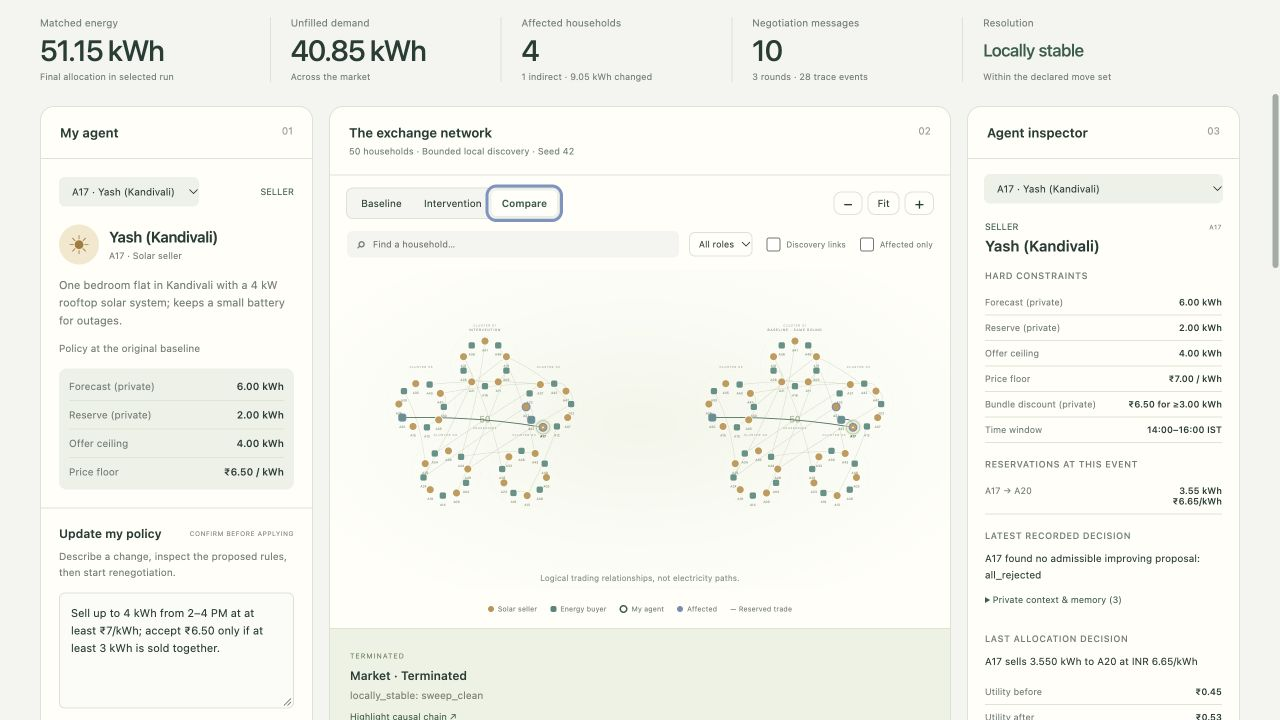
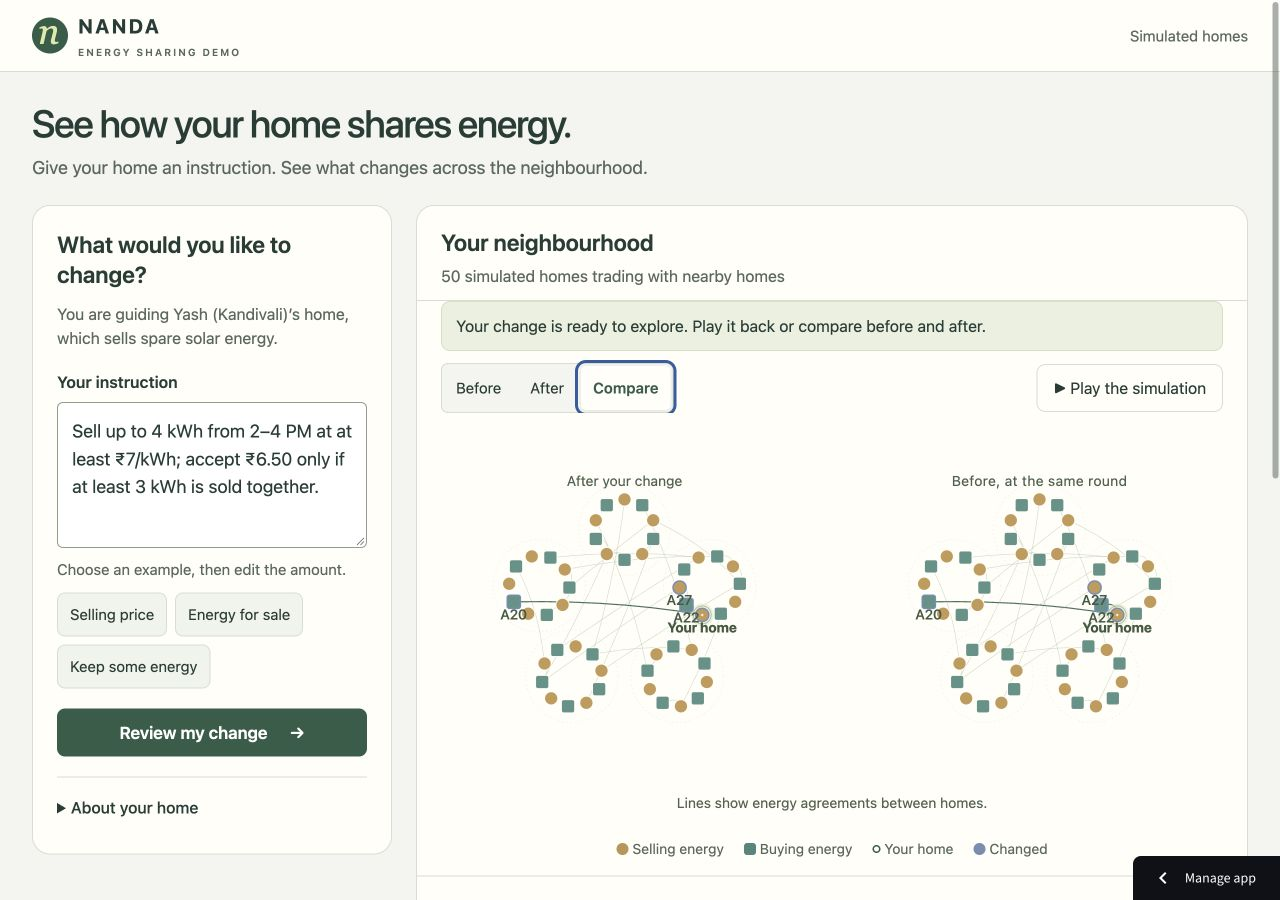
Document and verify the simplified public workspace

diff --git a/README-COLLECTIVE.md b/README-COLLECTIVE.md
@@ -1,6 +1,6 @@
 # Collective energy exchange sandbox
 
-The collective workspace lets you change a household policy and inspect the resulting negotiations. It supports 20, 50, or 100 synthetic households, recorded replay, baseline comparison, agent inspection, and evidence exports.
+The workspace starts with two panels: an instruction box and a neighbourhood simulation. Choose an example or write an instruction, review the change, and see what happens. Settings, household details, research results, and downloads stay closed until you need them. The simulation supports 20, 50, or 100 synthetic homes.
 
 [Open the hosted workspace](https://energy-exchange-collective.streamlit.app/).
 
@@ -41,18 +41,20 @@ The requirements file beside the entry point keeps collective deployment indepen
 
 ## Try the demonstration
 
-1. Keep 50 households, local discovery, and seed 42, then generate a baseline.
-2. Keep household A17 selected and enter the instruction below.
-3. Select **Preview policy**, check the proposed changes, and select **Confirm & renegotiate**.
-4. Step through the event timeline or play the recorded events. Click a household to inspect its current reservations and latest decision.
-5. Select **Compare** to see both networks at the same logical round. Scroll to Analysis for final allocation and utility differences.
-6. Select an export button, then its **Download** link for the experiment JSON, event JSONL, or trade ledger CSV. The JSON contains both worlds, both runs, the exact changed fields, and reproducibility checksums. **View or copy** exposes the complete file if the browser cancels a download. Some downloads were cancelled by the Codex in-app browser during verification; the export text and the packaged examples were checked directly.
+1. Open the page. It prepares 50 homes using local discovery and seed 42, with A17 selected.
+2. Choose an example or enter the instruction below. Examples fill the box without applying a change.
+3. Select **Review my change**, check the proposed rules, and select **Apply and see the result**.
+4. Select **Play the simulation** above the graph. **Before**, **After**, and **Compare** appear once a change has run. Comparison shows both networks at the same recorded round.
+5. Open **More ways to explore** for zoom, filters, and individual replay steps. Select a home in the graph to open its details.
+6. Open **Detailed results and downloads** for the comparison table, charts, and exports. Select an export button, then its **Download** link. **View or copy** exposes the complete file if the browser cancels a download.
+
+To change the number of homes or other research settings, open **Simulation settings** and select **Build the market**. The prompt comes first on a phone. Main text and controls are larger, and a keyboard skip link bypasses the network's interactive shapes.
 
 ```text
 Sell up to 4 kWh from 2–4 PM at at least ₹7/kWh; accept ₹6.50 only if at least 3 kWh is sold together.
 ```
 
-Each intervention starts from the original baseline. Editing an instruction or experiment setting invalidates its previous confirmation preview. A failed request leaves the last successful result visible.
+Each intervention starts from the original baseline. Reviewing a second instruction explains that it replaces the previous change. Editing an instruction or experiment setting invalidates its previous confirmation preview. A failed request leaves the last successful result visible.
 
 ## Supported instructions
 
@@ -63,7 +65,7 @@ The parser uses an explicit grammar and rejects unsupported clauses. It does not
 | Seller price | Raise my minimum price to ₹9/kWh |
 | Seller offer | Sell up to 4 kWh |
 | Forecast | Set my surplus to 3 kWh |
-| Reserve | Keep at least 1 kWh in reserve |
+| Reserve | Keep 1 kWh in reserve |
 | Buyer price | Set my maximum price to INR 10 |
 | Buyer budget | Set my budget to INR 25 |
 | Buyer requirement | Buy 3 kWh |
@@ -100,7 +102,7 @@ node --test tests/test_collective_ui.cjs tests/collective_streamlit_bridge.test.
 
 The engine tests use hand-checked fixtures for prices, budgets, reserves, bundle conditions, displacement, and baseline cloning. Scale checks cover all supported populations and discovery modes. The engine's `verify_result` function independently checks exported allocations and causal references. Browser regression tests execute the actual application script for confirmation and result handling.
 
-The complete original and collective Python suite also needs the original `requirements.txt` dependencies. The checked build passed 99 Python tests and 17 JavaScript tests. The additional scenario matrix passed all 54 cases; see `docs/evidence/verification.json`.
+The complete original and collective Python suite also needs the original `requirements.txt` dependencies. The checked build passed 99 Python tests and 28 JavaScript tests. The additional scenario matrix passed all 54 cases; see `docs/evidence/verification.json`.
 
 The cycle detection path is implemented, but no tested generated world produced a cycle. The workspace provides energy-by-event and final utility charts. Configurable utility penalties, arbitrary time windows, live meters, settlement, and production deployment are outside this version.
 

diff --git a/docs/superpowers/plans/2026-10-27-simple-workspace.md b/docs/superpowers/plans/2026-10-27-simple-workspace.md
@@ -31,9 +31,9 @@
 
 **Interfaces:** Preserve all existing IDs consumed by `collective.js`. Add `run-view`, `simple-outcome`, `prompt-help`, `household-details`, and three `example-N` buttons.
 
-- [ ] Build the prompt and graph layout, with closed disclosures for optional tools.
-- [ ] Check retained IDs, keyboard order, narrow and desktop layouts in the browser.
-- [ ] Commit the layout as a focused change.
+- [x] Build the prompt and graph layout, with closed disclosures for optional tools.
+- [x] Check retained IDs, keyboard order, narrow and desktop layouts in the browser.
+- [x] Commit the layout as a focused change.
 
 ### Task 2: Guide the interaction
 
@@ -41,15 +41,15 @@
 
 **Interfaces:** `suggestedInstructions(agent)` returns three `{label,text}` entries. `useExample(index)` fills the current role's instruction and clears a draft without making an API request. `renderOutcome()` derives its visible summary from the completed paired results.
 
-- [ ] Add failing tests for role-aware examples, stale-preview invalidation, result direction, and truthful limits.
-- [ ] Add guidance and simplify the review, status, and playback wording.
-- [ ] Run the JavaScript suite and commit the interaction changes.
+- [x] Add failing tests for role-aware examples, stale-preview invalidation, result direction, and truthful limits.
+- [x] Add guidance and simplify the review, status, and playback wording.
+- [x] Run the JavaScript suite and commit the interaction changes.
 
 ### Task 3: Verify and publish
 
 **Files:** README/run guide, screenshots, verification evidence.
 
-- [ ] Review Claude's independent usability findings and the final diff.
-- [ ] Verify the sample instruction, rejected instructions, replay, comparison, optional settings, and exports locally in both hosts.
-- [ ] Run all Python and JavaScript tests.
-- [ ] Publish focused commits, check GitHub CI and the hosted app, then update the downloadable source bundle.
+- [x] Review Claude's independent usability findings and the final diff.
+- [x] Verify the sample instruction, rejected instructions, replay, comparison, optional settings, and exports locally in both hosts.
+- [x] Run all Python and JavaScript tests.
+- [x] Publish focused commits, check GitHub CI and the hosted app, then update the downloadable source bundle.
